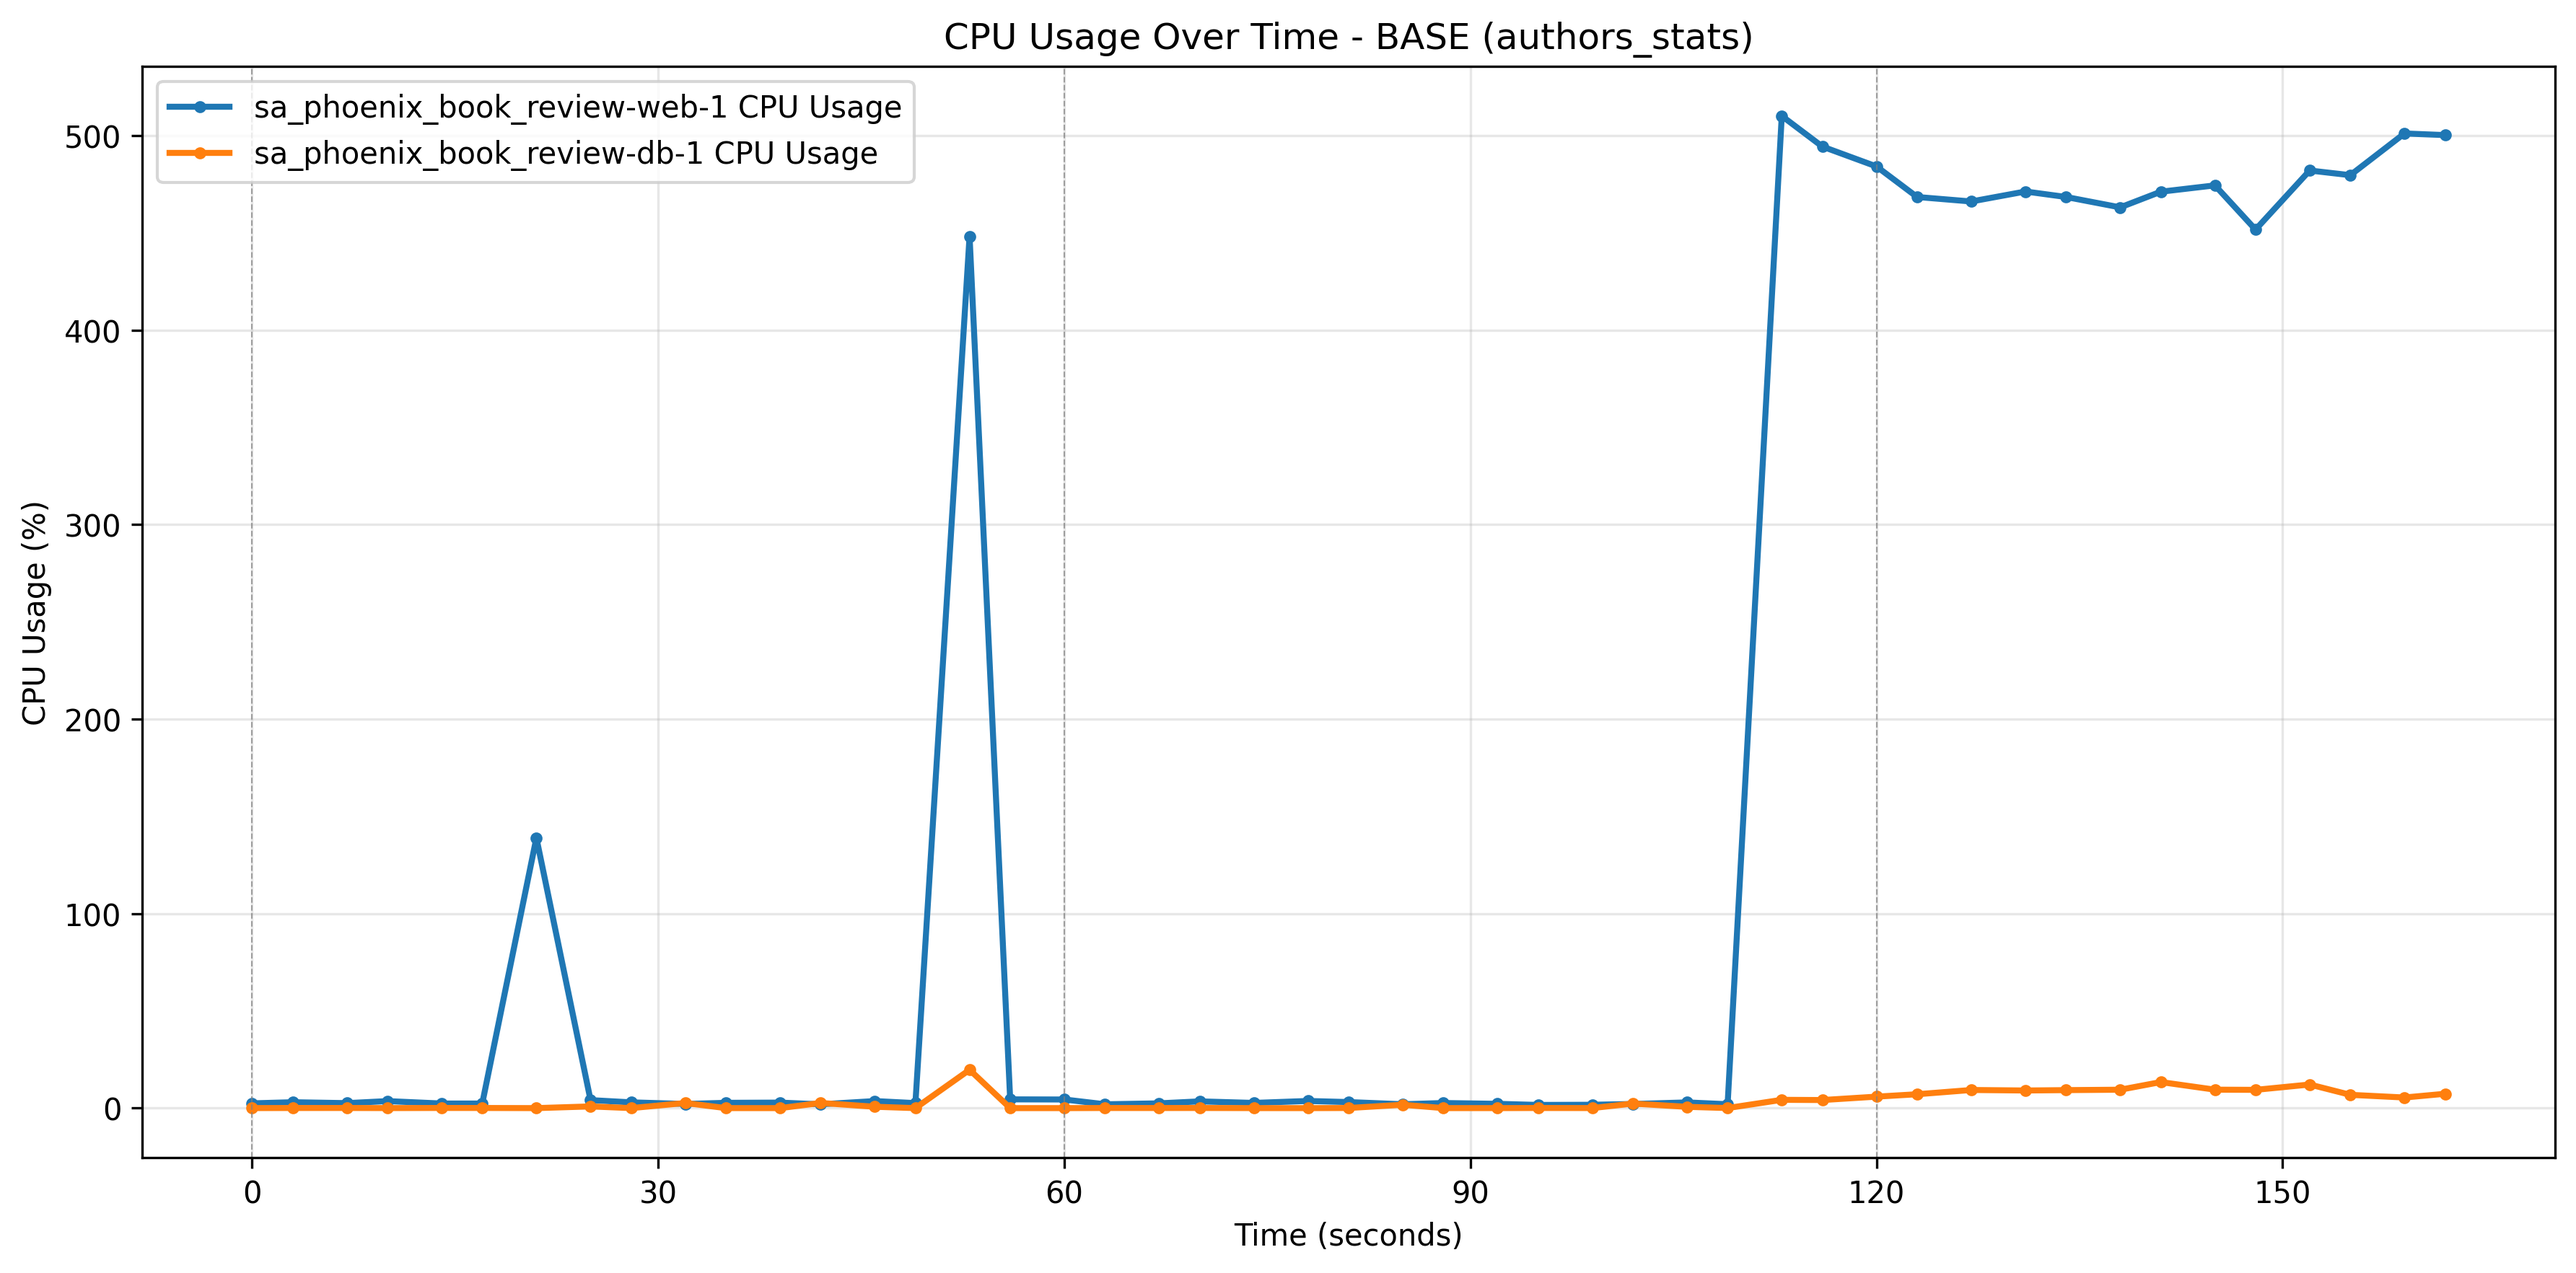
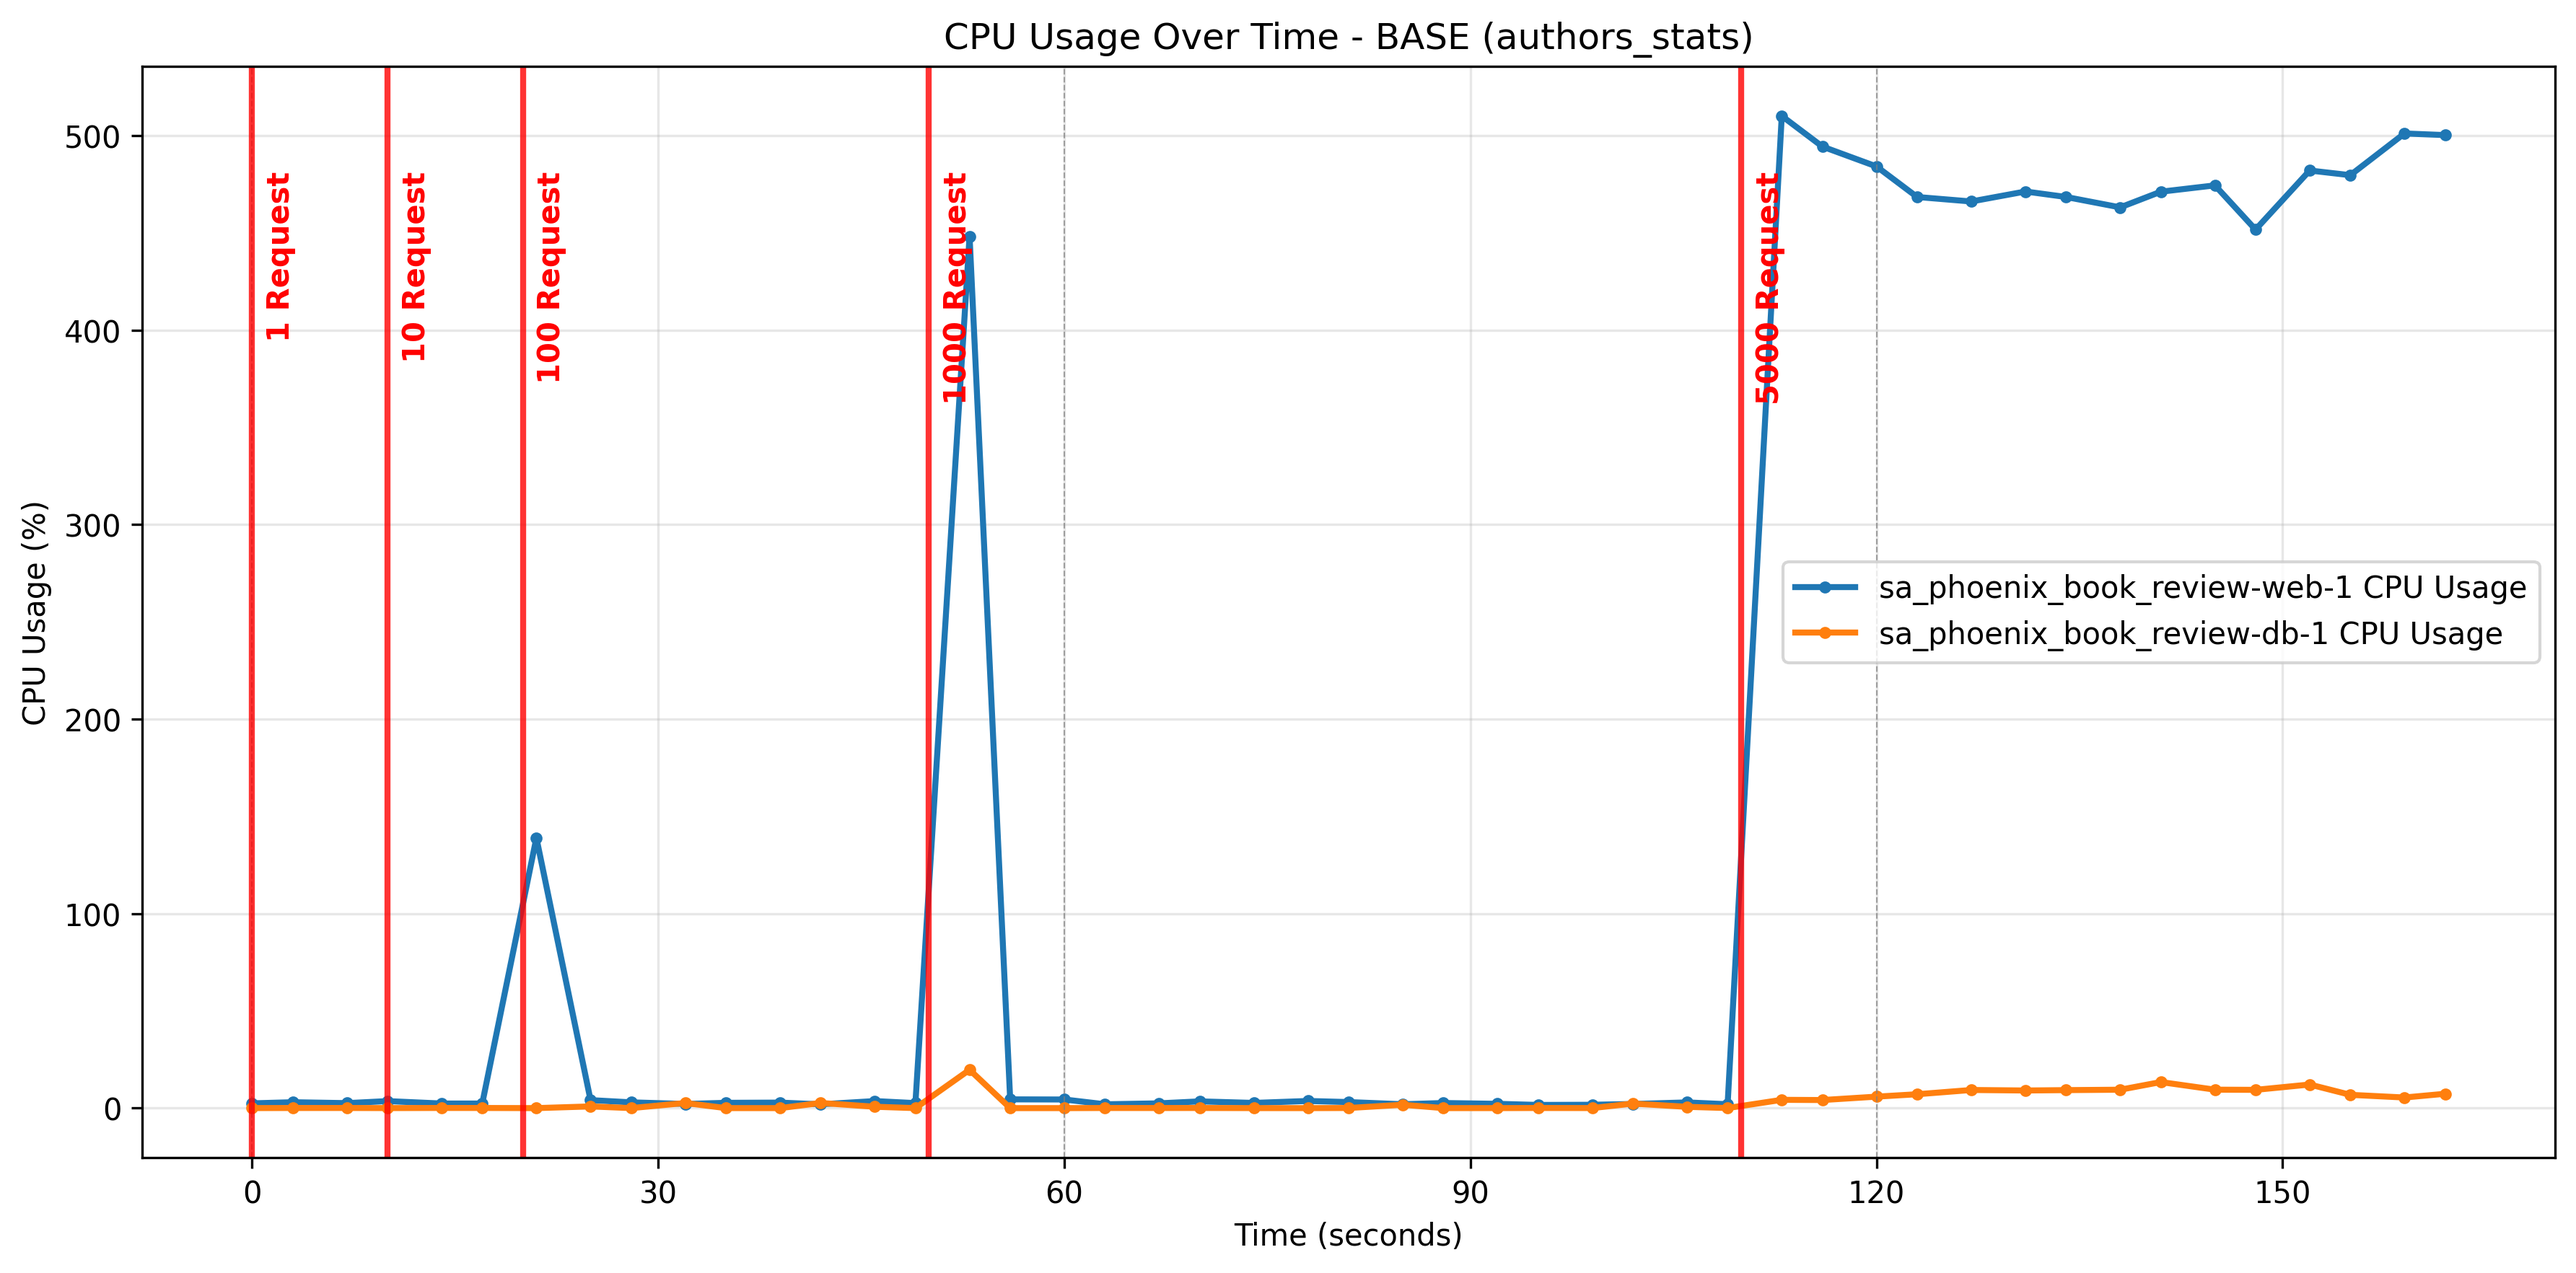
feat: Add authors statistics CPU usage graph for load testing analysis

diff --git a/load_testing/generate_graphs.py b/load_testing/generate_graphs.py
@@ -115,6 +115,23 @@ def main():
         for x in range(0, int(max_time) + 1, interval):
             ax.axvline(x=x, color='gray', linestyle='--', linewidth=0.5, alpha=0.7)
     
+    def add_thread_group_markers(ax, max_time):
+        """Add vertical lines for JMeter thread group start times"""
+        thread_groups = [
+            (0, "1 Request"),
+            (10, "10 Request"), 
+            (20, "100 Request"),
+            (50, "1000 Request"),
+            (110, "5000 Request")
+        ]
+        
+        for start_time, label in thread_groups:
+            if start_time <= max_time:
+                ax.axvline(x=start_time, color='red', linestyle='-', linewidth=2, alpha=0.8)
+                ax.text(start_time + 1, ax.get_ylim()[1] * 0.9, label, 
+                       rotation=90, verticalalignment='top', fontsize=10, 
+                       color='red', fontweight='bold')
+    
     # Create output directory
     output_dir = f"arch_{arch}/{name_file}"
     
@@ -137,6 +154,7 @@ def main():
     if time_deltas:
         plt.xticks(range(0, int(time_deltas[-1]) + 1, interval))
         add_vertical_lines(ax, interval_line, time_deltas[-1])
+        add_thread_group_markers(ax, time_deltas[-1])
     
     plt.tight_layout()
     cpu_output = f"{output_dir}/{name_file}_cpu_usage.png"
@@ -163,6 +181,7 @@ def main():
     if time_deltas:
         plt.xticks(range(0, int(time_deltas[-1]) + 1, interval))
         add_vertical_lines(ax, interval_line, time_deltas[-1])
+        add_thread_group_markers(ax, time_deltas[-1])
     
     plt.tight_layout()
     mem_output = f"{output_dir}/{name_file}_memory_usage.png"
@@ -189,6 +208,7 @@ def main():
     if time_deltas:
         plt.xticks(range(0, int(time_deltas[-1]) + 1, interval))
         add_vertical_lines(ax, interval_line, time_deltas[-1])
+        add_thread_group_markers(ax, time_deltas[-1])
     
     plt.tight_layout()
     threads_output = f"{output_dir}/{name_file}_threads_count.png"
